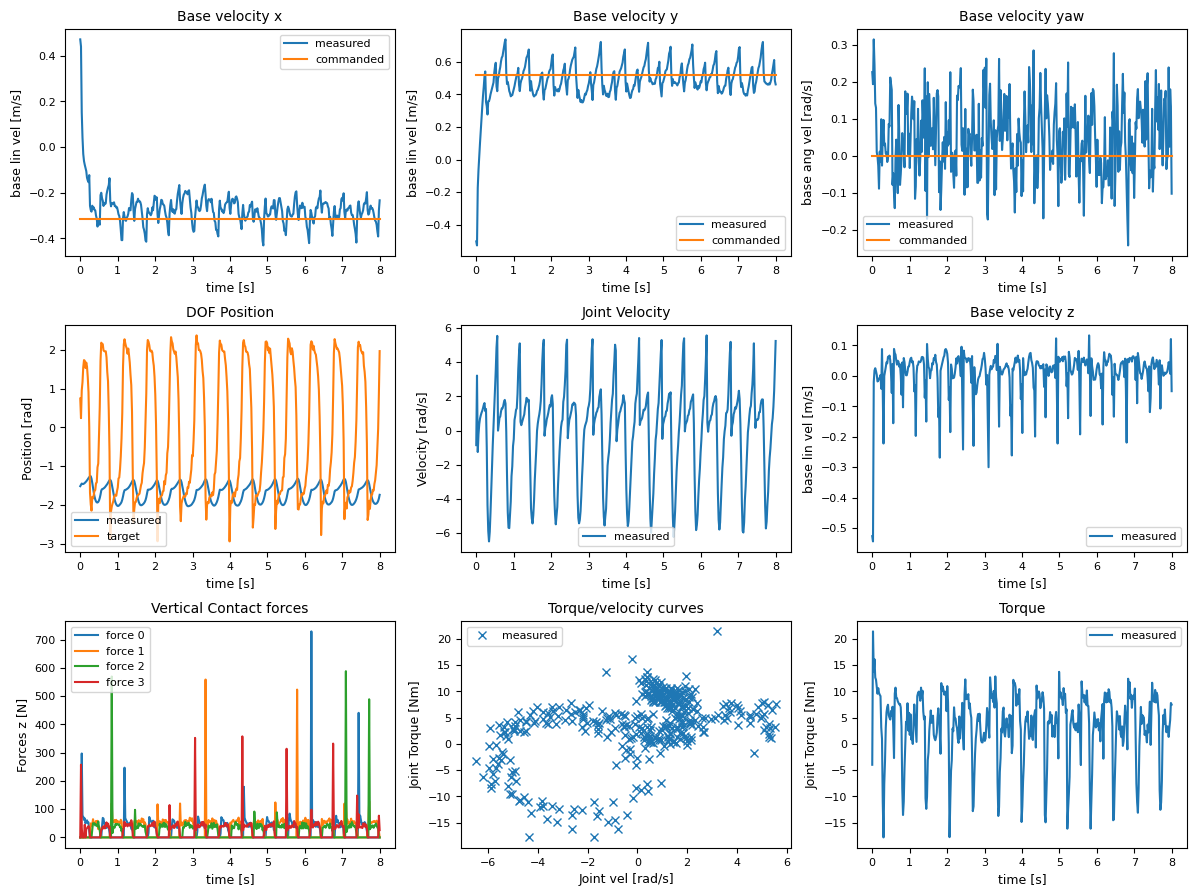
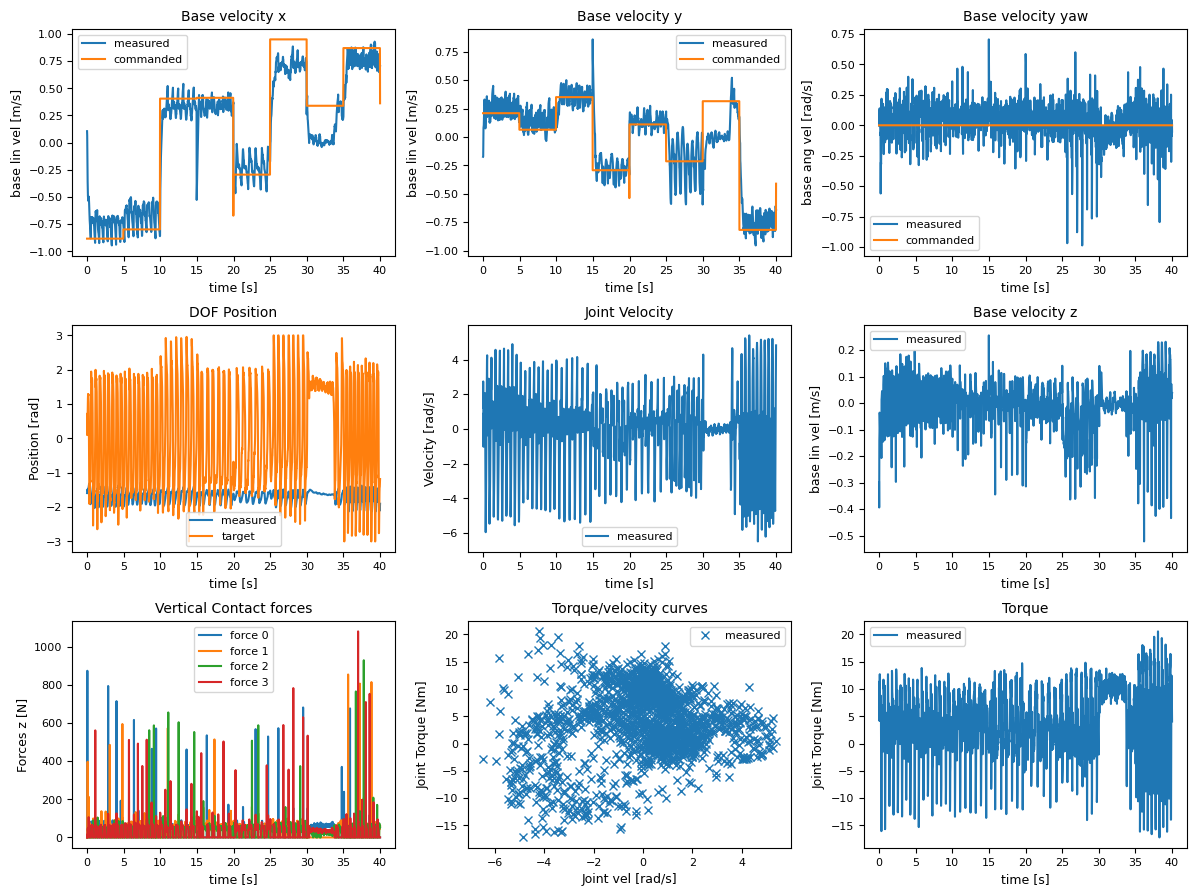
added play script for dynamic model. Pushing before a quick branch to add PINN loss

diff --git a/legged_gym/envs/go1/dynamics_learning/go1_dynmaics_learning.py b/legged_gym/envs/go1/dynamics_learning/go1_dynmaics_learning.py
@@ -414,7 +414,7 @@ class LeggedRobotGo1Dynamic(BaseTask):
             self.pos_rew_buf += rew
             self.episode_sums[name] += rew
         
-        # Accumulate torqye control specific rewards
+        # Accumulate torque control specific rewards
         self.tau_rew_buf[:] = 0.
         for i in range(len(self.tau_reward_functions)):
             name = self.tau_reward_names[i]
@@ -470,6 +470,9 @@ class LeggedRobotGo1Dynamic(BaseTask):
 
         if self.num_privileged_obs is not None:
             # TODO for liquid payloads -> added liquid mass + vscosity values to priv. obs.
+
+            # Clip the GRF values to help stablize the critic...
+
             self.privileged_obs_buf = torch.cat(
                 (   
                     self.obs_buf,                 # 57 DOF
@@ -1680,7 +1683,6 @@ class LeggedRobotGo1Dynamic(BaseTask):
         #     this also "guides" the policy to select complimentary position and torque values
         # augment the torques vector to include 6 zeros for the unactuated torso DOF's
         wb_torques = torch.concatenate((torch.zeros((self.torques.shape[0], 6), device=self.device, dtype=gs.tc_float), self.torques), dim=1)
-        
         return torch.norm(self.wb_dynamics_buff - self.contact_forces_buff - wb_torques, dim=1)
 
     def _reward_feet_air_time(self):
@@ -1702,90 +1704,6 @@ class LeggedRobotGo1Dynamic(BaseTask):
     def _reward_feet_contact_forces(self):
         # penalize high contact forces
         return torch.sum((torch.norm(self.link_contact_forces[:, self.feet_indices, :], dim=-1) -  self.cfg.rewards.max_contact_force).clip(min=0.), dim=1)
-
-    def _reward_raibert(self):
-        # Some constants. Will optimize later...
-        # Assume a decent "walk ~1m/s" stance time of 0.5 seconds
-        stance_time = 0.5
-        width_offset = 0.06
-        raibert_gain = 0.03
-        side_signs = torch.from_numpy(np.array([-1,1,-1,1])).float().to(self.device)
-        hip_offsets = torch.from_numpy(np.array([[0.19, -0.047, 0.0], [0.19, 0.047, 0.0], [-0.19, -0.047, 0.0], [-0.19, 0.047, 0.0]])).float().to(self.device)
-        
-        # contact filtering...
-        contact = self.link_contact_forces[:, self.feet_indices, 2] > 1.
-        contact_filt = torch.logical_or(contact, self.last_contacts)
-        self.last_contacts = contact
-        first_contact = (self.feet_air_time > 0.) * contact_filt
-
-        inv_base_quat = inv_quat(self.base_quat)
-
-        # calculate the Raibert Hueristic footstep location
-        # Perform for each foot in order or FR, FL, RR, RL
-        #     eventually want (num_env, 4, 2) - raibert is only concerned with x/y position
-        feet_pose_base = []
-        raibert_foot_pos = []
-        for i in range(len(self.feet_indices)):
-            # convert foot positions to base-frame
-            feet_pose_base_ = transform_by_quat(self.feet_pos[:,i,:], inv_base_quat)  # trasform to base frame
-            feet_pose_base.append(feet_pose_base_)
-
-            # Calculate Raibert huersitic foot contact locations in x/y-plane
-            offset = torch.zeros((self.feet_pos.shape[0], 3),dtype=gs.tc_float).to(self.device)     # (num_env, 3)
-            offset[:,1] = side_signs[i] * width_offset                                              # (num_env, 3)
-            probot_frame = hip_offsets[i] * offset                                                  # (num_env, 3)
-            z_rot_mats = self._build_raibert_rew_rot_mat(-self.commands[:,2] * stance_time * 0.5)   # (num_env, 3, 3)
-            corrected_probot_frame = torch.bmm(z_rot_mats, probot_frame.unsqueeze(-1)).squeeze(-1)  # (num_env, 3)
-            
-            # This is the result of eq. 13
-            basic_foot_pose = self.base_pos + transform_by_quat(corrected_probot_frame, inv_base_quat)  # (num_env, 3)
-
-            # now calculate the more complicated Raibert hueristic
-            #     symmetry hueristic
-            raibert_xy = self.base_lin_vel[:,:2] * (0.5 * stance_time) + raibert_gain * (self.base_lin_vel[:,:2] - self.commands[:,:2])  # (num_env, 2)
-            #     centrifugal hueristic
-            raibert_xy[:,0] += 0.5 * (self.base_pos[:,2]/9.81) *   self.base_lin_vel[:,1] * self.commands[:,2]   # x-axis 
-            raibert_xy[:,1] += 0.5 * (self.base_pos[:,2]/9.81) * (-self.base_lin_vel[:,0] * self.commands[:,2])  # y-axis
-
-            # now we can calculate the final heursitic foot placement in the base-frame 
-            heuristic_foot_pos = torch.zeros((self.num_envs, 3), dtype=gs.tc_float)                    # (num_env, 3)
-            heuristic_foot_pos[:,0] = basic_foot_pose[:,0] + raibert_xy[:,0]
-            heuristic_foot_pos[:,1] = basic_foot_pose[:,1] + raibert_xy[:,1]
-            
-            # Append the calculations for this foot
-            raibert_foot_pos.append(heuristic_foot_pos)
-
-        # Now we have a list like (4, num_env, 3), we want (num_env, 4, 3)
-        feet_pose_base = torch.stack(feet_pose_base).to(self.device)   # (4, num_env, 3)
-        feet_pose_base = feet_pose_base.permute(1,0,2)                 # (num_env, 4, 3)
-
-        raibert_foot_pos = torch.stack(raibert_foot_pos).to(self.device)   # (4, num_env, 3)
-        raibert_foot_pos = raibert_foot_pos.permute(1,0,2)                 # (num_env, 4, 3)
-
-        # Calculate the error, ignore height, that is covered elsewhere
-        foot_error_xy = torch.sum(feet_pose_base[:,:,:2] - raibert_foot_pos[:,:,:2], dim=-1)  # (num_env, 4)
-
-        # filter by the first contact AND square the error
-        raibert_error = torch.sum(first_contact * torch.square(foot_error_xy), dim=-1)
-
-        return torch.exp(-raibert_error / self.cfg.rewards.foot_clearance_tracking_sigma)
-
-
-    # A rotation about the z-axis
-    def _build_raibert_rew_rot_mat(self, theta):
-        s = torch.sin(theta)        # (num_env,)
-        c = torch.cos(theta)        # (num_env,)
-
-        batch_rot_mats = torch.zeros((self.num_envs, 3, 3), dtype=gs.tc_float).to(self.device)
-
-        # Fill in the non-zero entries
-        batch_rot_mats[:,0,0] = c[:]
-        batch_rot_mats[:,0,1] = s[:]
-        batch_rot_mats[:,1,0] = -s[:]
-        batch_rot_mats[:,1,1] = c[:]
-        batch_rot_mats[:,2,2] = 1.0
-
-        return batch_rot_mats
 
     def _reward_no_motion_penalty(self):
         cmd_mag = torch.norm(self.commands[:, :2], dim=1)
@@ -1826,3 +1744,89 @@ class LeggedRobotGo1Dynamic(BaseTask):
         )
         return torch.exp(-clearance_error / self.cfg.rewards.foot_clearance_tracking_sigma)
         # return clearance_error
+
+    # The definition and calculation of this reward is inspired by the footstep selection calculations in https://arxiv.org/pdf/1909.06586
+    def _reward_raibert(self):
+        # Some constants. Will optimize later...
+        # Assume a decent "walk" (~1m/s) stance time of 0.5 seconds
+        stance_time = 0.5
+        width_offset = 0.06
+        raibert_gain = 0.03
+        # The arrays below assume the foot ordering of FR, FL, RR, RL
+        side_signs = torch.from_numpy(np.array([-1,1,-1,1])).float().to(self.device)
+        hip_offsets = torch.from_numpy(np.array([[0.19, -0.047, 0.0], [0.19, 0.047, 0.0], [-0.19, -0.047, 0.0], [-0.19, 0.047, 0.0]])).float().to(self.device)
+        
+        # contact filtering...
+        contact = self.link_contact_forces[:, self.feet_indices, 2] > 1.
+        contact_filt = torch.logical_or(contact, self.last_contacts)
+        self.last_contacts = contact
+        first_contact = (self.feet_air_time > 0.) * contact_filt
+
+        inv_base_quat = inv_quat(self.base_quat)
+
+        # calculate the Raibert Hueristic footstep location
+        # Perform for each foot in order or FR, FL, RR, RL
+        #     eventually want (num_env, 4, 2) - raibert is only concerned with x/y position
+        feet_pose_base = []
+        raibert_foot_pos = []
+        for i in range(len(self.feet_indices)):
+            # convert foot positions to base-frame
+            feet_pose_base_ = transform_by_quat(self.feet_pos[:,i,:], inv_base_quat)  # trasform to base frame (num_env, 3)
+            feet_pose_base.append(feet_pose_base_)
+
+            # Calculate Raibert huersitic foot contact locations in x/y-plane
+            offset = torch.zeros((self.feet_pos.shape[0], 3),dtype=gs.tc_float).to(self.device)     # (num_env, 3)
+            offset[:,1] = side_signs[i] * width_offset                                              # (num_env, 3)
+            probot_frame = hip_offsets[i] + offset                                                  # (num_env, 3)
+            z_rot_mats = self._build_raibert_rew_rot_mat(-self.commands[:,2] * stance_time * 0.5)   # (num_env, 3, 3)
+            corrected_probot_frame = torch.bmm(z_rot_mats, probot_frame.unsqueeze(-1)).squeeze(-1)  # (num_env, 3)
+            
+            # This is the result of eq. 13
+            basic_foot_pose = self.base_pos + transform_by_quat(corrected_probot_frame, inv_base_quat)  # (num_env, 3)
+
+            # now calculate the more complicated Raibert hueristic
+            #     symmetry hueristic
+            raibert_xy = self.base_lin_vel[:,:2] * (0.5 * stance_time) + raibert_gain * (self.base_lin_vel[:,:2] - self.commands[:,:2])  # (num_env, 2)
+            #     centrifugal hueristic
+            raibert_xy[:,0] += 0.5 * (self.base_pos[:,2]/9.81) *   self.base_lin_vel[:,1] * self.commands[:,2]   # x-axis 
+            raibert_xy[:,1] += 0.5 * (self.base_pos[:,2]/9.81) * (-self.base_lin_vel[:,0] * self.commands[:,2])  # y-axis
+
+            # now we can calculate the final heursitic foot placement on the ground(xy)-plane in the base-frame 
+            heuristic_foot_pos = torch.zeros((self.num_envs, 3), dtype=gs.tc_float)                    # (num_env, 3)
+            heuristic_foot_pos[:,0] = basic_foot_pose[:,0] + raibert_xy[:,0]
+            heuristic_foot_pos[:,1] = basic_foot_pose[:,1] + raibert_xy[:,1]
+            
+            # Append the calculations for this foot
+            raibert_foot_pos.append(heuristic_foot_pos)
+
+        # Now we have a list like (4, num_env, 3), we want (num_env, 4, 3)
+        feet_pose_base = torch.stack(feet_pose_base).to(self.device)   # (4, num_env, 3)
+        feet_pose_base = feet_pose_base.permute(1,0,2)                 # (num_env, 4, 3)
+
+        raibert_foot_pos = torch.stack(raibert_foot_pos).to(self.device)   # (4, num_env, 3)
+        raibert_foot_pos = raibert_foot_pos.permute(1,0,2)                 # (num_env, 4, 3)
+
+        # Calculate the error, ignore height, that is covered elsewhere
+        foot_error_xy = torch.sum(feet_pose_base[:,:,:2] - raibert_foot_pos[:,:,:2], dim=-1)  # (num_env, 4)
+
+        # filter by the first contact AND square the error
+        raibert_error = torch.sum(first_contact * torch.square(foot_error_xy), dim=-1)
+
+        # return torch.exp(-raibert_error / self.cfg.rewards.foot_clearance_tracking_sigma)
+        return raibert_error
+
+    # A rotation about the z-axis
+    def _build_raibert_rew_rot_mat(self, theta):
+        s = torch.sin(theta)        # (num_env,)
+        c = torch.cos(theta)        # (num_env,)
+
+        batch_rot_mats = torch.zeros((self.num_envs, 3, 3), dtype=gs.tc_float).to(self.device)
+
+        # Fill in the non-zero entries
+        batch_rot_mats[:,0,0] = c[:]
+        batch_rot_mats[:,0,1] = s[:]
+        batch_rot_mats[:,1,0] = -s[:]
+        batch_rot_mats[:,1,1] = c[:]
+        batch_rot_mats[:,2,2] = 1.0
+
+        return batch_rot_mats

diff --git a/legged_gym/envs/go1/dynamics_learning/go1_dl_config.py b/legged_gym/envs/go1/dynamics_learning/go1_dl_config.py
@@ -201,13 +201,14 @@ class GO1DynamicCfg( LeggedRobotCfg ):
             dof_close_to_default  = -0.1
             torque_limits         = -10.0
             stand_still           = -0.1
+            no_motion_penalty     = -1.00
+            alive_bonus           = 0.5
+
 
             # command tracking
             tracking_lin_vel  = 1.0
             tracking_ang_vel  = 0.5
-            no_motion_penalty = -1.00
 
-            alive_bonus = 0.0
 
             # smoothness and stability
             lin_vel_z        = -2.0
@@ -223,12 +224,8 @@ class GO1DynamicCfg( LeggedRobotCfg ):
             action_rate       = 0.0
             action_smoothness = 0.0
 
-            # Since we want to drive this loss to zero, I think we make it negative
-            # We are using this to constrain the model... so negative, positive is when we want to accumulate a behavior
-            # whereas here we are trying to discourage this error signal (promoting stable WB locomotion).
-            # Might need to scale this a bit depending on the magnitude of the reward signal..
-            # we want the reward to be large but not dominating....
-            wb_dynamics = -1.0e-3
+            # promot stable WB locomotion
+            wb_dynamics = -1.0e-4
 
             # gait
             feet_air_time  = 1.0
@@ -237,7 +234,7 @@ class GO1DynamicCfg( LeggedRobotCfg ):
             feet_contact_forces = -1e-4
 
             # new....
-            raibert     = 1.0e-4
+            raibert     = -1.0e-4
 
         class pos_scales():
             pos_action_rate       = -0.001   # new
@@ -315,5 +312,12 @@ class GO1DynmaicCfgPPO( LeggedRobotCfgPPO ):
         run_name = 'raibert_wbdyn'
         experiment_name = 'go1_dynamic'
         save_interval = 50
+        load_run = "Dec02_18-42-41_raibert_wbdyn"
+        checkpoint = 2000
+
+        # Load parameters for first function policy
+        # run_name = 'test_01'
+        # experiment_name = 'go1_dynamic'
+        # save_interval = 50
         # load_run = "Dec01_18-26-31_test_01"
         # checkpoint = 3000

diff --git a/legged_gym/scripts/play_dynamic.py b/legged_gym/scripts/play_dynamic.py
@@ -17,16 +17,16 @@ def play(args):
     args.task = "go1_dynamic"
     env_cfg, train_cfg = task_registry.get_cfgs(name=args.task)
     # override some parameters for testing
-    env_cfg.env.num_envs = min(env_cfg.env.num_envs, 1)
+    env_cfg.env.num_envs = min(env_cfg.env.num_envs, 5)
     env_cfg.viewer.rendered_envs_idx = list(range(env_cfg.env.num_envs))
     
-    # for i in range(2):
-    #     env_cfg.viewer.pos[i] = env_cfg.viewer.pos[i] - env_cfg.terrain.plane_length / 4
-    #     env_cfg.viewer.lookat[i] = env_cfg.viewer.lookat[i] - env_cfg.terrain.plane_length / 4
+    for i in range(2):
+        env_cfg.viewer.pos[i] = env_cfg.viewer.pos[i] - env_cfg.terrain.plane_length / 4
+        env_cfg.viewer.lookat[i] = env_cfg.viewer.lookat[i] - env_cfg.terrain.plane_length / 4
     
-    env_cfg.terrain.border_size = 1
-    env_cfg.terrain.num_rows = 1
-    env_cfg.terrain.num_cols = 1
+    env_cfg.terrain.border_size = 5
+    env_cfg.terrain.num_rows = 2
+    env_cfg.terrain.num_cols = 5
     
     
     env_cfg.noise.add_noise = True
@@ -69,7 +69,7 @@ def play(args):
     logger = Logger(env.dt)
     robot_index = 0 # which robot is used for logging
     joint_index = 2 # which joint is used for logging
-    stop_state_log = 400 # number of steps before plotting states
+    stop_state_log = 2000 # number of steps before plotting states
     
     stop_rew_log = env.max_episode_length + 1 # number of steps before print average episode rewards
     
@@ -84,7 +84,7 @@ def play(args):
     camera_position_follow = camera_lookat_follow - camera_deviation_follow
     
     # for RECORD_FRAMES
-    stop_record = 1000
+    stop_record = 2000
 
 
     if RECORD_FRAMES:

diff --git a/legged_gym/envs/go2/go2_rough/go2_rough_config.py b/legged_gym/envs/go2/go2_rough/go2_rough_config.py
@@ -108,7 +108,19 @@ class GO2RoughCfg( LeggedRobotCfg ):
             # gait
             feet_air_time = 1.0
             # dof_close_to_default = -0.05
-    
+
+    class viewer:
+        ref_env = 0
+        pos = [2, 2, 2]       # [m]
+        lookat = [0., 0, 1.]  # [m]
+        rendered_envs_idx = [i for i in range(0,10)]  # number of environments to be rendered
+        rendered_envs_idx.extend([i for i in range(1000,1010)])
+        rendered_envs_idx.extend([i for i in range(2000,2010)])
+        rendered_envs_idx.extend([i for i in range(3000,3010)])
+        rendered_envs_idx.extend([i for i in range(4000,4010)])
+        # rendered_envs_idx = [0, 1000, 3500]
+        add_camera = False
+
     class commands( LeggedRobotCfg.commands ):
         curriculum = True
         max_curriculum = 1.
@@ -140,6 +152,6 @@ class GO2RoughCfgPPO( LeggedRobotCfgPPO ):
         run_name = ''
         experiment_name = 'go2_rough'
         save_interval = 100
-        load_run = "Feb10_18-54-11_"
+        load_run = "Dec04_10-42-12_"
         checkpoint = -1
         max_iterations = 2500

diff --git a/legged_gym/scripts/play.py b/legged_gym/scripts/play.py
@@ -63,7 +63,7 @@ def play(args):
     logger = Logger(env.dt)
     robot_index = 0 # which robot is used for logging
     joint_index = 2 # which joint is used for logging
-    stop_state_log = 400 # number of steps before plotting states
+    stop_state_log = 10000 # number of steps before plotting states
     stop_rew_log = env.max_episode_length + 1 # number of steps before print average episode rewards
     
     # for MOVE_CAMERA
@@ -75,7 +75,7 @@ def play(args):
     camera_deviation_follow = np.array([0., 3., -1.])
     camera_position_follow = camera_lookat_follow - camera_deviation_follow
     # for RECORD_FRAMES
-    stop_record = 400
+    stop_record = 10000
     if RECORD_FRAMES:
         env.floating_camera.start_recording()
 
